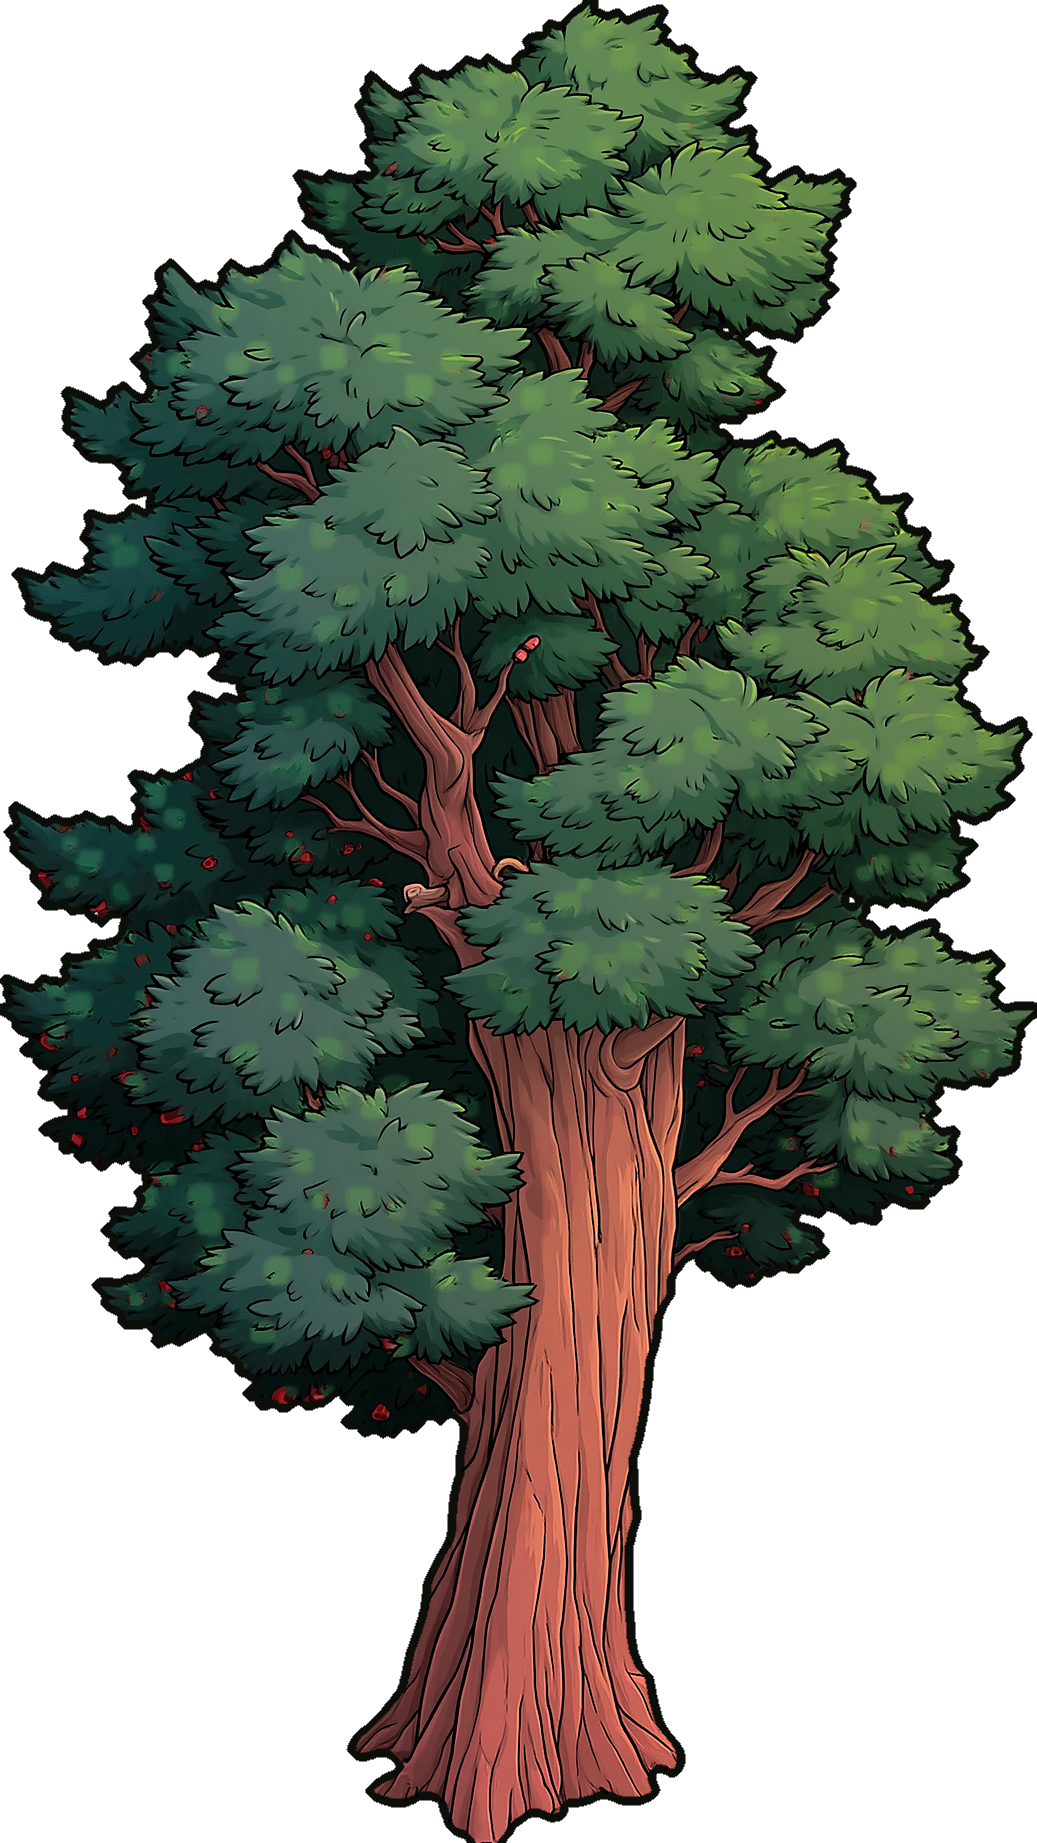
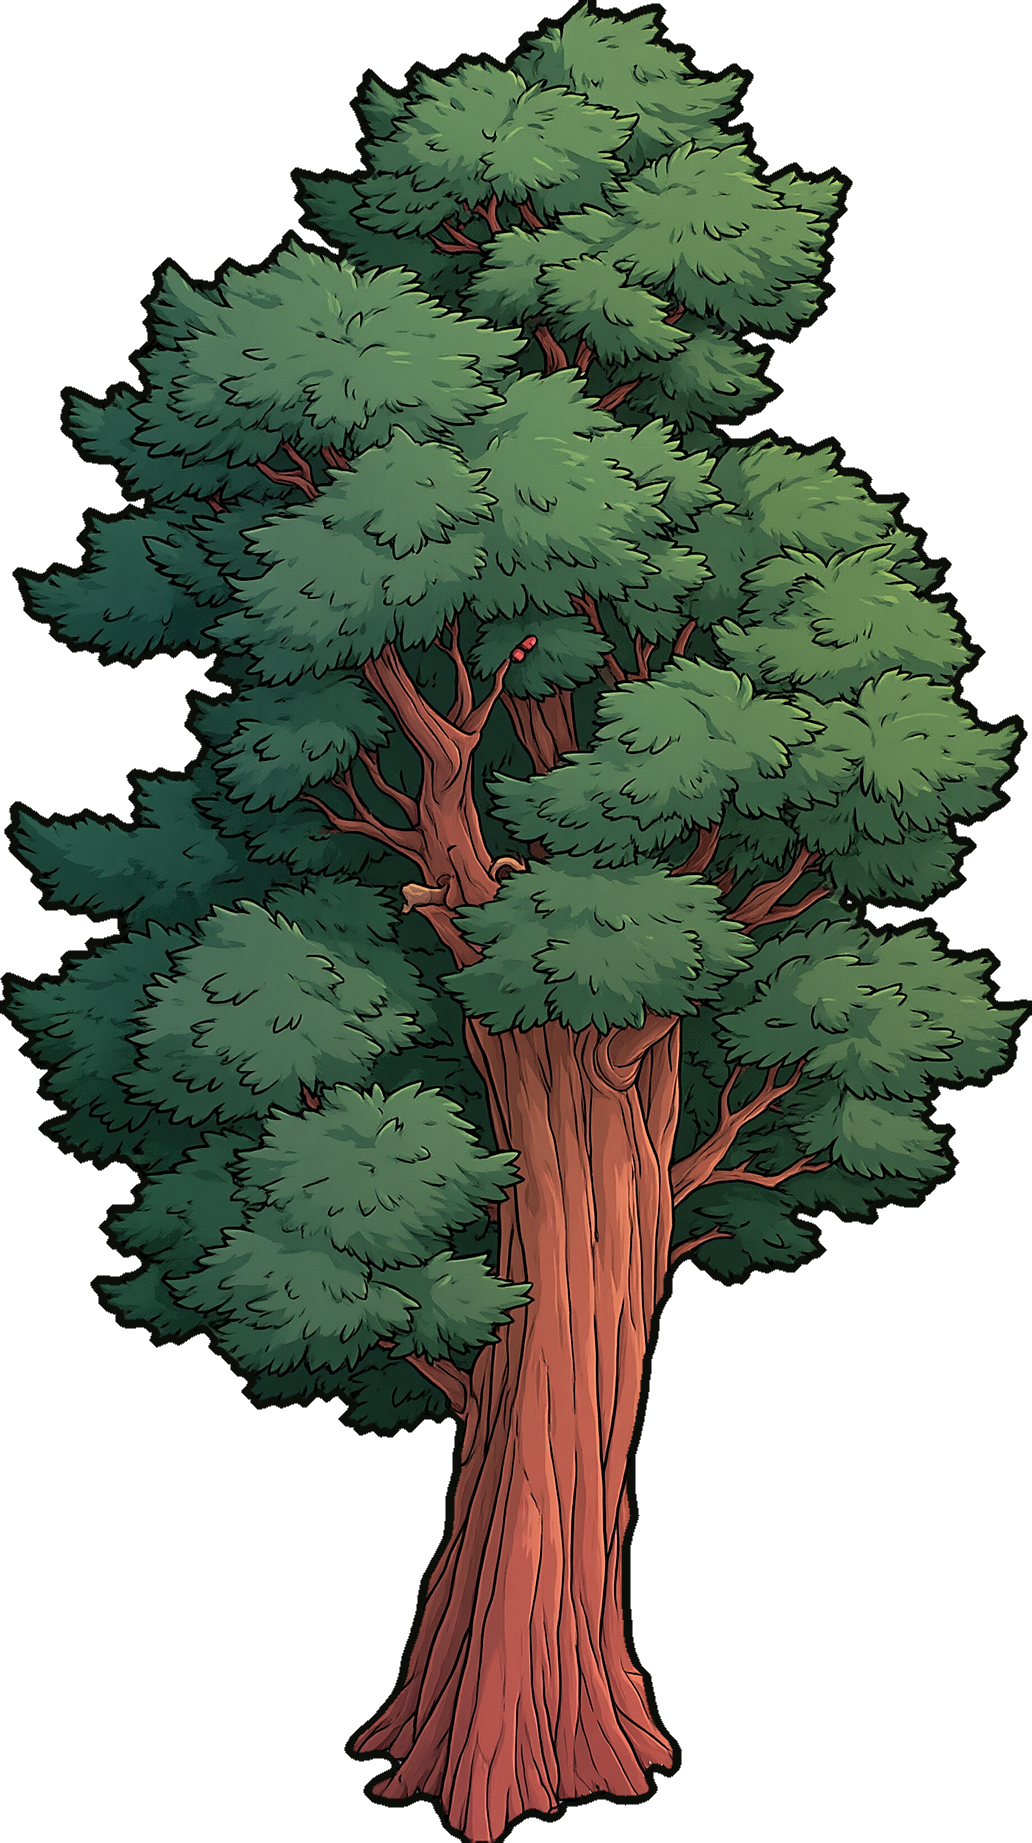
fix(content): the yew is made again from its clean source, without red arils

Changed region(s): [[0.0, 0.0, 1.0, 1.0]]

diff --git a/content/art/trees/README.md b/content/art/trees/README.md
@@ -192,3 +192,9 @@ shadow) and was made alone with `flora_art.py --trees` from a sources
 folder holding only it, so it has the ink line and the other trees were
 left as they were. It carries no fruit yet (the content gives it none).
 The wild fig is the last tree still drawn with a stand-in's (the hazel's).
+
+**18 November 2026, the yew back to its source**: the yew shipped was a
+Midjourney edit made for the fruit states of 17 November, darker, with
+small red arils left in its crown. It is made again from its own clean
+source (`yew_01.png`), alone with `flora_art.py --trees`, so it has the
+ink line and no red speck; the other trees were left as they were.
